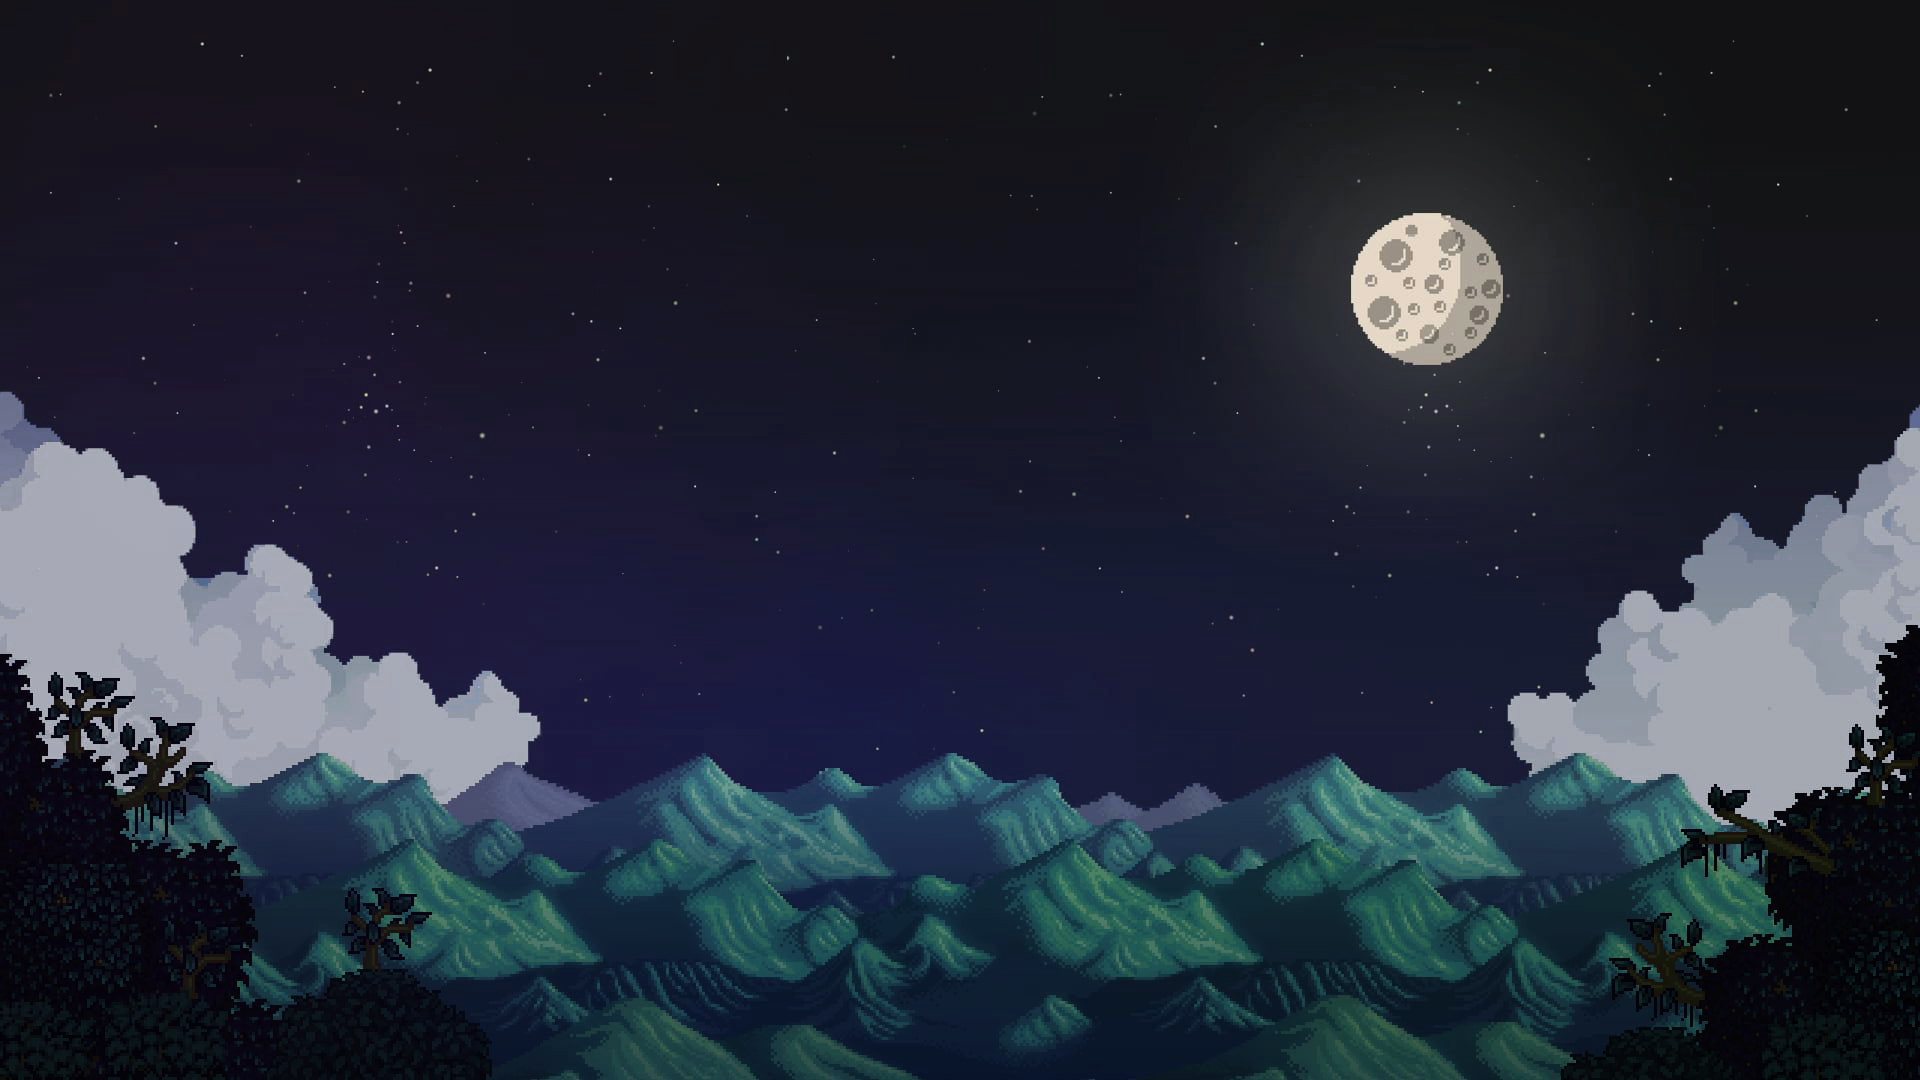
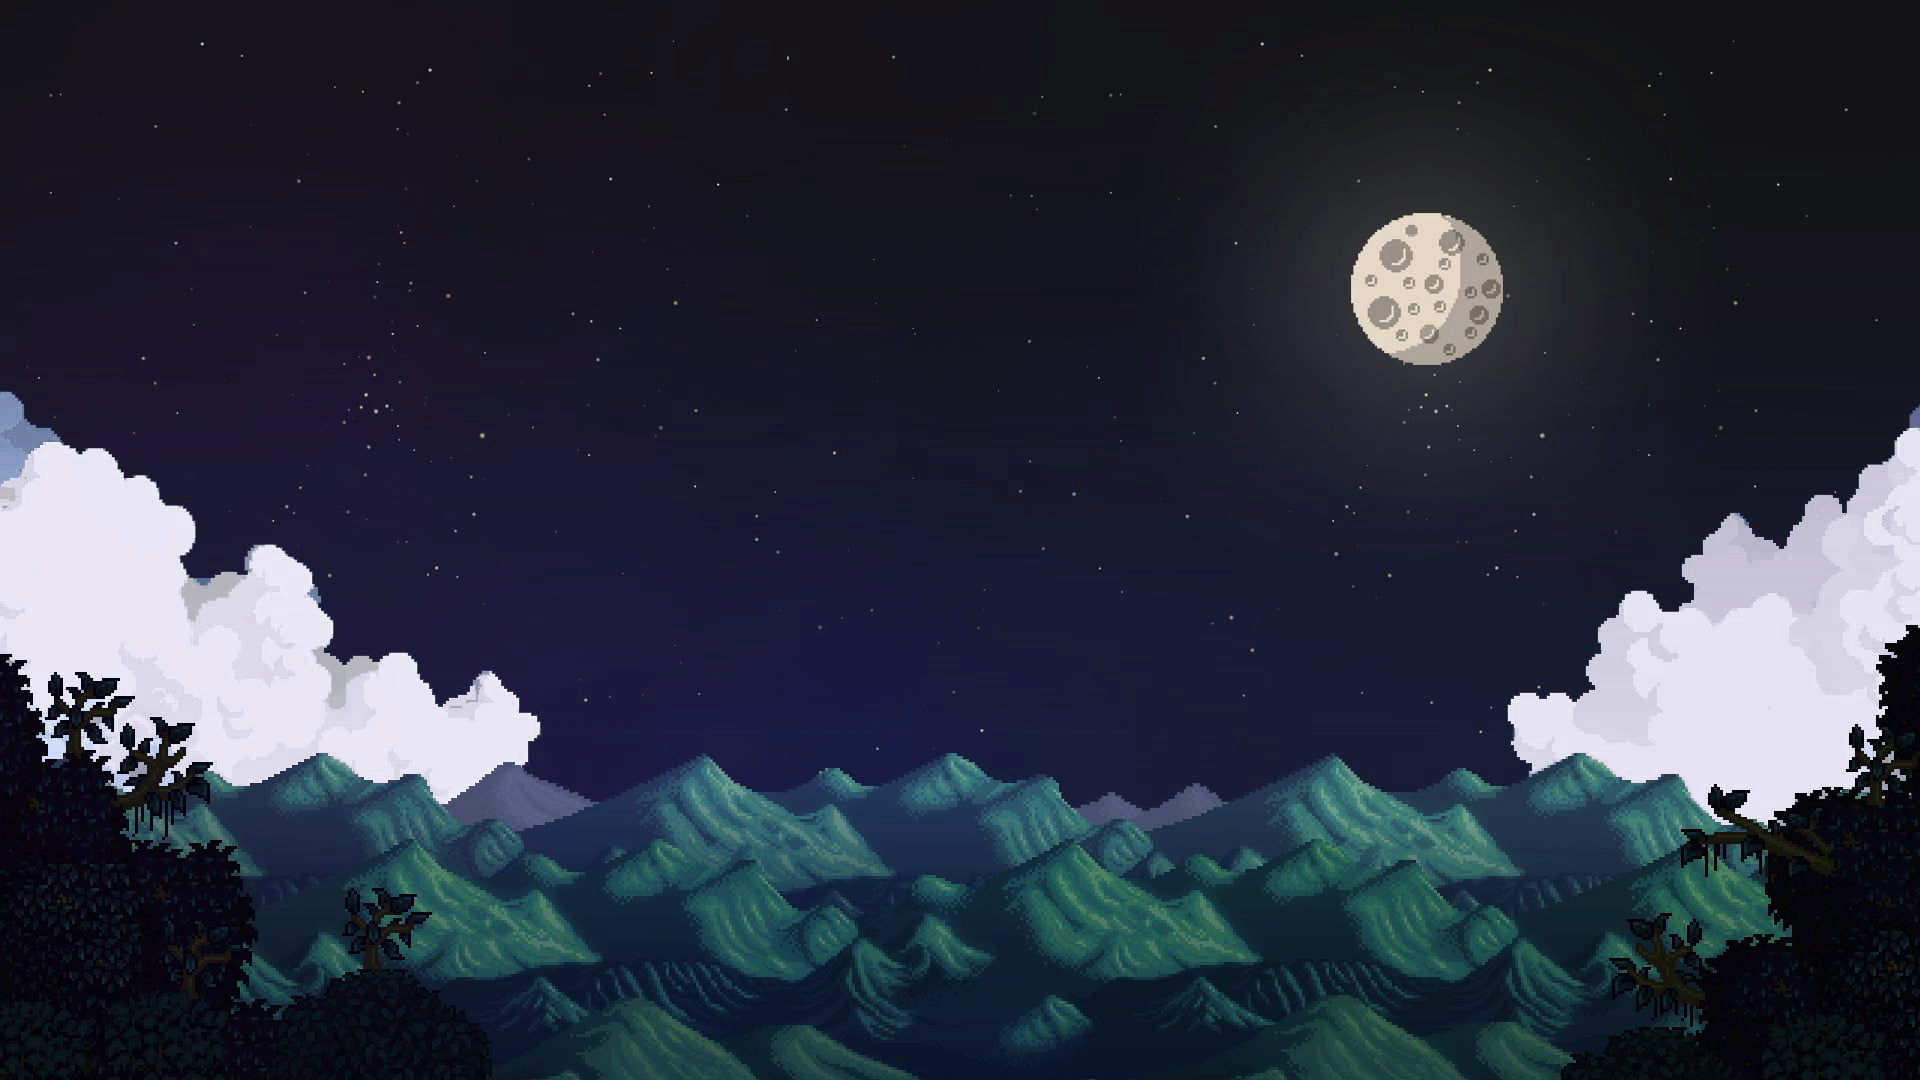
New footer and minor corrections

Changed region(s): [[0.0, 0.3667, 0.2812, 0.7639], [0.7812, 0.3972, 1.0, 0.7639]]

diff --git a/styles.scss b/styles.scss
@@ -130,7 +130,7 @@ html {
     padding: 40px 15px;
     overflow: hidden;
     z-index: -1000;
-    
+
     .gif-date{
         width: 48px;
         margin-bottom: 10px;
@@ -145,6 +145,8 @@ html {
         animation-name: goRight;
         animation-iteration-count: infinite;
         opacity: .3;
+
+        
       }
       
       @keyframes goRight {
@@ -166,6 +168,8 @@ html {
         animation-name: goLeft;
         animation-iteration-count: infinite;
         opacity: .3;
+
+
       }
       
       @keyframes goLeft {
@@ -202,7 +206,7 @@ html {
       .cloud4 {
         position: absolute;
         top: 50%;
-        left: 500px;
+        left: -1200px;
         z-index: 2;
         animation-duration: 750s;
         animation-name: goRight2;
@@ -212,11 +216,11 @@ html {
       
       @keyframes goRight2 {
         from {
-          transform: translate(0,0);
+          transform: translate(1920px,0);
         }
       
         to {
-          transform: translate(1920px,0);
+          transform: translate(0,0);
         }
       }
 
@@ -529,7 +533,7 @@ footer {
     width: 100%;
     position: absolute;
     left: 0;
-    bottom: 32px;
+    bottom: 50px;
     z-index: 10;
 
     .icon-wrapper {
@@ -545,30 +549,34 @@ footer {
         padding: 2px 10px 2px 10px;
         gap: 10px;
         color: rgba(255, 255, 255, 0.5);
+        cursor: url('img/coursor.png'), auto;
         &:hover {
             background-color: #ffffff30;
             backdrop-filter: blur(4px);
+            cursor: url('img/coursor.png'), auto;
         }
 
         img {
-            height: 50px;
+            height: 80px;
             transition: .2s ease-in-out;
             opacity: 1;
+            cursor: url('img/coursor.png'), auto;
 
             &:hover {
                 height: 100px;
-                transform: translateY(-20px);
+                transform: translateY(-10px);
                 cursor: pointer;
                 opacity: 1;
+                cursor: url('img/coursor.png'), auto;
             }
 
         }
 
-
+    } h4 {
+        font-family: 'Stardew Valley';
+        font-weight: 100;
+        font-size: 25px;
+        color: white;
     }
 
 }
-
-
-
-

diff --git a/styles.css b/styles.css
@@ -279,7 +279,7 @@ html {
 .desktop .cloud4 {
   position: absolute;
   top: 50%;
-  left: 500px;
+  left: -1200px;
   z-index: 2;
   -webkit-animation-duration: 750s;
           animation-duration: 750s;
@@ -292,23 +292,23 @@ html {
 
 @-webkit-keyframes goRight2 {
   from {
-    -webkit-transform: translate(0, 0);
-            transform: translate(0, 0);
-  }
-  to {
     -webkit-transform: translate(1920px, 0);
             transform: translate(1920px, 0);
+  }
+  to {
+    -webkit-transform: translate(0, 0);
+            transform: translate(0, 0);
   }
 }
 
 @keyframes goRight2 {
   from {
-    -webkit-transform: translate(0, 0);
-            transform: translate(0, 0);
-  }
-  to {
     -webkit-transform: translate(1920px, 0);
             transform: translate(1920px, 0);
+  }
+  to {
+    -webkit-transform: translate(0, 0);
+            transform: translate(0, 0);
   }
 }
 
@@ -659,7 +659,7 @@ footer {
   width: 100%;
   position: absolute;
   left: 0;
-  bottom: 32px;
+  bottom: 50px;
   z-index: 10;
 }
 
@@ -685,26 +685,37 @@ footer .icon-wrapper {
   padding: 2px 10px 2px 10px;
   gap: 10px;
   color: rgba(255, 255, 255, 0.5);
+  cursor: url("img/coursor.png"), auto;
 }
 
 footer .icon-wrapper:hover {
   background-color: #ffffff30;
   -webkit-backdrop-filter: blur(4px);
           backdrop-filter: blur(4px);
+  cursor: url("img/coursor.png"), auto;
 }
 
 footer .icon-wrapper img {
-  height: 50px;
+  height: 80px;
   -webkit-transition: .2s ease-in-out;
   transition: .2s ease-in-out;
   opacity: 1;
+  cursor: url("img/coursor.png"), auto;
 }
 
 footer .icon-wrapper img:hover {
   height: 100px;
-  -webkit-transform: translateY(-20px);
-          transform: translateY(-20px);
+  -webkit-transform: translateY(-10px);
+          transform: translateY(-10px);
   cursor: pointer;
   opacity: 1;
+  cursor: url("img/coursor.png"), auto;
+}
+
+footer h4 {
+  font-family: 'Stardew Valley';
+  font-weight: 100;
+  font-size: 25px;
+  color: white;
 }
 /*# sourceMappingURL=styles.css.map */

diff --git a/index.html b/index.html
@@ -24,10 +24,10 @@
     </section> -->
 
     <main class="desktop">
-        <img src="img/cloud1.png" class="cloud1">
+        <!-- <img src="img/cloud1.png" class="cloud1"> -->
         <img src="img/cloud2.png" class="cloud2">
         <img src="img/cloud3.png" class="cloud3">
-        <img src="img/cloud4.png" class="cloud4">
+        <!-- <img src="img/cloud3.png" class="cloud4"> -->
         <section class="window" id="folder">
 
             <header class="window-header" id="folderHeader">
@@ -196,11 +196,12 @@
 
     <footer>
         <section class="icon-wrapper">
-            Stardew Tools:
-            <img src="img/game1.png">
-            <img src="img/game2.png">
-            <img src="img/game3.png">
-            <img src="img/map-planner-1.png">
+            <h4>Tools:</h4>
+            <img src="img/m1.png" onclick="windowHandler('map')">
+            <img src="img/m2.png" onclick="windowHandler('wiki')">
+            <img src="img/m3.png" onclick="windowHandler('browser')">
+            <img src="img/m4.png" >
+
 
         </section>
     </footer>
